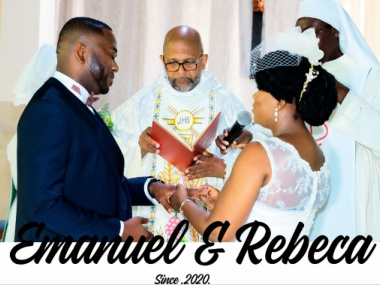
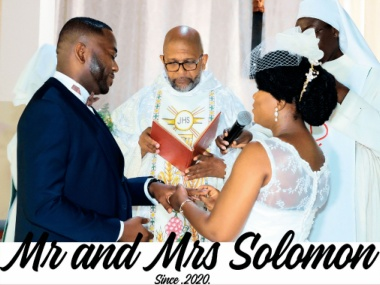
jj
jj

Changed region(s): [[0.0, 0.7579, 1.0, 0.9544], [0.2605, 0.4211, 0.3184, 0.4491]]

diff --git a/solomon/mobile/javascript/config.js b/solomon/mobile/javascript/config.js
@@ -136,7 +136,7 @@ btnTableOfContent:["btnBookMark"]
 };
 	
 	
-	;bookConfig.BookTemplateName="clear";bookConfig.loadingCaption="Loading";bookConfig.loadingCaptionColor="#DDDDDD";bookConfig.loadingBackground="#E8E8E8";bookConfig.appLogoIcon="files/mobile-ext/appLogoIcon.png";bookConfig.appLogoOpenWindow="Blank";bookConfig.logoHeight="40";bookConfig.logoPadding="0";bookConfig.logoTop="0";bookConfig.toolbarColor="#000000";bookConfig.iconColor="#ECF5FB";bookConfig.pageNumColor="#333333";bookConfig.iconFontColor="#FFFFFF";bookConfig.toolbarAlwaysShow="No";bookConfig.InstructionsButtonVisible="Show";bookConfig.QRCode="Hide";bookConfig.HomeButtonVisible="Hide";bookConfig.HomeURL="%first page%";bookConfig.enablePageBack="Show";bookConfig.ShareButtonVisible="Hide";bookConfig.EmailButtonVisible="Hide";bookConfig.btnShareWithEmailBody="{link}";bookConfig.ThumbnailsButtonVisible="Show";bookConfig.thumbnailColor="#333333";bookConfig.thumbnailAlpha="70";bookConfig.BookMarkButtonVisible="Hide";bookConfig.TableOfContentButtonVisible="Show";bookConfig.bookmarkBackground="#000000";bookConfig.bookmarkFontColor="#cccccc";bookConfig.SearchButtonVisible="Hide";bookConfig.leastSearchChar="3";bookConfig.searchFontColor="#FFFFFF";bookConfig.searchHightlightColor="#ffff00";bookConfig.SelectTextButtonVisible="Hide";bookConfig.PrintButtonVisible="Hide";bookConfig.BackgroundSoundButtonVisible="Show";bookConfig.FlipSound="Yes";bookConfig.BackgroundSoundLoop="-1";bookConfig.AutoPlayButtonVisible="Show";bookConfig.autoPlayAutoStart="No";bookConfig.autoPlayDuration="9";bookConfig.autoPlayLoopCount="1";bookConfig.ZoomButtonVisible="Show";bookConfig.minZoomWidth="700";bookConfig.minZoomHeight="518";bookConfig.mouseWheelFlip="Yes";bookConfig.DownloadButtonVisible="Hide";bookConfig.PhoneButtonVisible="Hide";bookConfig.AnnotationButtonVisible="Hide";bookConfig.FullscreenButtonVisible="Show";bookConfig.bgBeginColor="#E2E2E2";bookConfig.bgEndColor="#E2E2E2";bookConfig.bgMRotation="90";bookConfig.backGroundImgURL="files/mobile-ext/backGroundImgURL.jpg";bookConfig.backgroundPosition="stretch";bookConfig.backgroundOpacity="100";bookConfig.LeftShadowWidth="90";bookConfig.LeftShadowAlpha="0.6";bookConfig.RightShadowWidth="55";bookConfig.RightShadowAlpha="0.6";bookConfig.ShowTopLeftShadow="Yes";bookConfig.HardPageEnable="No";bookConfig.hardCoverBorderWidth="8";bookConfig.borderColor="#572F0D";bookConfig.outerCoverBorder="Yes";bookConfig.cornerRound="8";bookConfig.leftMarginOnMobile="0";bookConfig.topMarginOnMobile="0";bookConfig.rightMarginOnMobile="0";bookConfig.bottomMarginOnMobile="0";bookConfig.pageBackgroundColor="#E8E8E8";bookConfig.flipshortcutbutton="Show";bookConfig.BindingType="side";bookConfig.RightToLeft="No";bookConfig.flippingTime="0.6";bookConfig.retainBookCenter="Yes";bookConfig.FlipStyle="Flip";bookConfig.autoDoublePage="No";bookConfig.thicknessWidthType="Thinner";bookConfig.thicknessColor="#ffffff";bookConfig.topMargin="10";bookConfig.bottomMargin="10";bookConfig.leftMargin="10";bookConfig.rightMargin="10";bookConfig.maxWidthToSmallMode="400";bookConfig.maxHeightToSmallMode="300";bookConfig.LinkDownColor="#800080";bookConfig.LinkAlpha="0.2";bookConfig.OpenWindow="Blank";bookConfig.showLinkHint="No";bookConfig.MidBgColor="#664716";bookConfig.searchFontColor="#FFFDDD";bookConfig.totalPageCount=7;bookConfig.largePageWidth=1800;bookConfig.largePageHeight=1350;;bookConfig.securityType="1";bookConfig.bookTitle="rebeca\&ema";bookConfig.bookmarkCR="aade6c8e6e7a8aff42d88900f5444820bc897d68";bookConfig.productName="Flip PDF Corporate Edition";bookConfig.homePage="http://www.flipbuilder.com";bookConfig.searchPositionJS="mobile/javascript/text_position[1].js";bookConfig.searchTextJS="mobile/javascript/search_config.js";bookConfig.normalPath="files/mobile/";bookConfig.largePath="files/mobile/";bookConfig.thumbPath="files/thumb/";bookConfig.userListPath="files/extfiles/users.js";bookConfig.UIBaseURL='mobile/';var language = [];;function orgt(s){ return binl2hex(core_hx(str2binl(s), s.length * chrsz));};; var pageEditor = {"setting":{"annoPlaying":"true","shoppingCartHTML":"false","shoppingCartOptinon":{"type":"PayPal","paypal":"","method":"POST","sandbox":"false","address":"","theme":"","body":"Hi xxx<br/>   I\'m going to buy below product(s):<br/>    ${shopping}<br/>Full Name","showPrice":"true","showTime":"true"}}, "pageAnnos":[[],[],[],[],[],[],[{"annotype":"com.mobiano.flipbook.pageeditor.TAnnoLink","annoId":"202024910373880","alpha":"1","overColor":"8388736","downColor":"8388736","outColor":"11184810","overAlpha":"0.2","downAlpha":"0.2","outAlpha":"0","pageViewedBool":"true","ellipseH":"0","ellipseW":"0","location":{"tannoName":"link1","x":"0.021111111111111112","y":"0.9081481481481479","width":"0.35533333333333333","height":"0.08562962962962962","rotation":"0","reflection":"false","reflectionType":"0","reflectionAlpha":"0","pageWidth":"1800","pageHeight":"1350"},"hint":{"hintShapeColor":"0","hintShapeColor2":"8388736","hintShapeAlpha":"1","hintW":"0","hintH":"0","hintAuto":"true","hintShapeType":"2","text":""},"shadow":{"hasDropShadow":"false","shadowDistance":"4","shadowAngle":"270","shadowColor":"0","shadowAlpha":"0.6","shadowBlurX":"4","shadowBlurY":"4"},"highlightsBool":"false","linkStatus":"1","mouseOver":"false","borderColor":"16737792","action":{"triggerEventType":"mouseDown","actionType":"com.mobiano.flipbook.pageeditor.TAnnoActionOpenURL","url":"https://www.facebook.com/arkatservices","linkTarget":"_blank"}},{"annotype":"com.mobiano.flipbook.pageeditor.TAnnoLink","annoId":"202024910372383","alpha":"1","overColor":"8388736","downColor":"8388736","outColor":"11184810","overAlpha":"0.2","downAlpha":"0.2","outAlpha":"0","pageViewedBool":"true","ellipseH":"0","ellipseW":"0","location":{"tannoName":"link2","x":"0.6633333333333333","y":"0.9096296296296297","width":"0.32222222222222224","height":"0.08","rotation":"0","reflection":"false","reflectionType":"0","reflectionAlpha":"0","pageWidth":"1800","pageHeight":"1350"},"hint":{"hintShapeColor":"0","hintShapeColor2":"8388736","hintShapeAlpha":"1","hintW":"0","hintH":"0","hintAuto":"true","hintShapeType":"2","text":""},"shadow":{"hasDropShadow":"false","shadowDistance":"4","shadowAngle":"270","shadowColor":"0","shadowAlpha":"0.6","shadowBlurX":"4","shadowBlurY":"4"},"highlightsBool":"false","linkStatus":"1","mouseOver":"false","borderColor":"16737792","action":{"triggerEventType":"mouseDown","actionType":"com.mobiano.flipbook.pageeditor.TAnnoActionOpenURL","url":"https://www.instagram.com/arkat_services","linkTarget":"_blank"}},{"annotype":"com.mobiano.flipbook.pageeditor.TAnnoLink","annoId":"202024910372091","alpha":"1","overColor":"8388736","downColor":"8388736","outColor":"11184810","overAlpha":"0.2","downAlpha":"0.2","outAlpha":"0","pageViewedBool":"true","ellipseH":"0","ellipseW":"0","location":{"tannoName":"link1","x":"0.3844444444444444","y":"0.9085185185185184","width":"0.2688888888888889","height":"0.09125925925925926","rotation":"0","reflection":"false","reflectionType":"0","reflectionAlpha":"0","pageWidth":"1800","pageHeight":"1350"},"hint":{"hintShapeColor":"0","hintShapeColor2":"8388736","hintShapeAlpha":"1","hintW":"0","hintH":"0","hintAuto":"true","hintShapeType":"2","text":""},"shadow":{"hasDropShadow":"false","shadowDistance":"4","shadowAngle":"270","shadowColor":"0","shadowAlpha":"0.6","shadowBlurX":"4","shadowBlurY":"4"},"highlightsBool":"false","linkStatus":"1","mouseOver":"false","borderColor":"16737792","action":{"triggerEventType":"mouseDown","actionType":"com.mobiano.flipbook.pageeditor.TAnnoActionOpenURL","url":"https://wa.me/233542454224","linkTarget":"_blank"}}]]}; bookConfig.isFlipPdf=false;
+	;bookConfig.BookTemplateName="clear";bookConfig.loadingCaption="Loading";bookConfig.loadingCaptionColor="#DDDDDD";bookConfig.loadingBackground="#E8E8E8";bookConfig.appLogoIcon="files/mobile-ext/appLogoIcon.png";bookConfig.appLogoOpenWindow="Blank";bookConfig.logoHeight="40";bookConfig.logoPadding="0";bookConfig.logoTop="0";bookConfig.toolbarColor="#000000";bookConfig.iconColor="#ECF5FB";bookConfig.pageNumColor="#333333";bookConfig.iconFontColor="#FFFFFF";bookConfig.toolbarAlwaysShow="No";bookConfig.InstructionsButtonVisible="Show";bookConfig.QRCode="Hide";bookConfig.HomeButtonVisible="Hide";bookConfig.HomeURL="%first page%";bookConfig.enablePageBack="Show";bookConfig.ShareButtonVisible="Hide";bookConfig.EmailButtonVisible="Hide";bookConfig.btnShareWithEmailBody="{link}";bookConfig.ThumbnailsButtonVisible="Show";bookConfig.thumbnailColor="#333333";bookConfig.thumbnailAlpha="70";bookConfig.BookMarkButtonVisible="Hide";bookConfig.TableOfContentButtonVisible="Show";bookConfig.bookmarkBackground="#000000";bookConfig.bookmarkFontColor="#cccccc";bookConfig.SearchButtonVisible="Hide";bookConfig.leastSearchChar="3";bookConfig.searchFontColor="#FFFFFF";bookConfig.searchHightlightColor="#ffff00";bookConfig.SelectTextButtonVisible="Show";bookConfig.PrintButtonVisible="Show";bookConfig.BackgroundSoundButtonVisible="Show";bookConfig.FlipSound="Yes";bookConfig.BackgroundSoundLoop="-1";bookConfig.AutoPlayButtonVisible="Show";bookConfig.autoPlayAutoStart="No";bookConfig.autoPlayDuration="9";bookConfig.autoPlayLoopCount="1";bookConfig.ZoomButtonVisible="Show";bookConfig.minZoomWidth="700";bookConfig.minZoomHeight="518";bookConfig.mouseWheelFlip="Yes";bookConfig.DownloadButtonVisible="Hide";bookConfig.PhoneButtonVisible="Hide";bookConfig.AnnotationButtonVisible="Hide";bookConfig.FullscreenButtonVisible="Show";bookConfig.bgBeginColor="#1F2232";bookConfig.bgEndColor="#1F2232";bookConfig.bgMRotation="90";bookConfig.backGroundImgURL="files/mobile-ext/backGroundImgURL.jpg";bookConfig.backgroundPosition="stretch";bookConfig.backgroundOpacity="100";bookConfig.LeftShadowWidth="90";bookConfig.LeftShadowAlpha="0.6";bookConfig.RightShadowWidth="55";bookConfig.RightShadowAlpha="0.6";bookConfig.ShowTopLeftShadow="Yes";bookConfig.HardPageEnable="No";bookConfig.hardCoverBorderWidth="8";bookConfig.borderColor="#572F0D";bookConfig.outerCoverBorder="Yes";bookConfig.cornerRound="8";bookConfig.leftMarginOnMobile="0";bookConfig.topMarginOnMobile="0";bookConfig.rightMarginOnMobile="0";bookConfig.bottomMarginOnMobile="0";bookConfig.pageBackgroundColor="#FFFFFF";bookConfig.flipshortcutbutton="Show";bookConfig.BindingType="side";bookConfig.RightToLeft="No";bookConfig.flippingTime="0.6";bookConfig.retainBookCenter="Yes";bookConfig.FlipStyle="Flip";bookConfig.autoDoublePage="No";bookConfig.thicknessWidthType="Thinner";bookConfig.thicknessColor="#ffffff";bookConfig.topMargin="10";bookConfig.bottomMargin="10";bookConfig.leftMargin="10";bookConfig.rightMargin="10";bookConfig.maxWidthToSmallMode="400";bookConfig.maxHeightToSmallMode="300";bookConfig.LinkDownColor="#800080";bookConfig.LinkAlpha="0.2";bookConfig.OpenWindow="Blank";bookConfig.showLinkHint="No";bookConfig.MidBgColor="#781639";bookConfig.searchFontColor="#FFFDDD";bookConfig.totalPageCount=7;bookConfig.largePageWidth=1800;bookConfig.largePageHeight=1350;;bookConfig.securityType="1";bookConfig.bookTitle="Mr and Mrs Solomon";bookConfig.bookmarkCR="670d0bba0db6be3550e77ee26b09b027445aa12a";bookConfig.productName="Flip PDF Corporate Edition";bookConfig.homePage="http://www.flipbuilder.com";bookConfig.searchPositionJS="mobile/javascript/text_position[1].js";bookConfig.searchTextJS="mobile/javascript/search_config.js";bookConfig.normalPath="files/mobile/";bookConfig.largePath="files/mobile/";bookConfig.thumbPath="files/thumb/";bookConfig.userListPath="files/extfiles/users.js";bookConfig.UIBaseURL='mobile/';var language = [];;function orgt(s){ return binl2hex(core_hx(str2binl(s), s.length * chrsz));};; var pageEditor = {"setting":{"annoPlaying":"true","shoppingCartHTML":"false","shoppingCartOptinon":{"type":"PayPal","paypal":"","method":"POST","sandbox":"false","address":"","theme":"","body":"Hi xxx<br/>   I\'m going to buy below product(s):<br/>    ${shopping}<br/>Full Name","showPrice":"true","showTime":"true"}}, "pageAnnos":[[],[],[],[],[],[],[{"annotype":"com.mobiano.flipbook.pageeditor.TAnnoLink","annoId":"202030103495934","alpha":"1","overColor":"8388736","downColor":"8388736","outColor":"11184810","overAlpha":"0.2","downAlpha":"0.2","outAlpha":"0","pageViewedBool":"true","ellipseH":"0","ellipseW":"0","location":{"tannoName":"link1","x":"0.37666666666666665","y":"0.9081481481481481","width":"0.2831666666666667","height":"0.09562962962962962","rotation":"-0.6274828929315216","reflection":"false","reflectionType":"0","reflectionAlpha":"0","pageWidth":"1800","pageHeight":"1350"},"hint":{"hintShapeColor":"0","hintShapeColor2":"8388736","hintShapeAlpha":"1","hintW":"0","hintH":"0","hintAuto":"true","hintShapeType":"2","text":""},"shadow":{"hasDropShadow":"false","shadowDistance":"4","shadowAngle":"270","shadowColor":"0","shadowAlpha":"0.6","shadowBlurX":"4","shadowBlurY":"4"},"highlightsBool":"false","linkStatus":"1","mouseOver":"false","borderColor":"16737792","action":{"triggerEventType":"mouseDown","actionType":"com.mobiano.flipbook.pageeditor.TAnnoActionOpenURL","url":"https://wa.me/233542454224","linkTarget":"_blank"}},{"annotype":"com.mobiano.flipbook.pageeditor.TAnnoLink","annoId":"20203010349615","alpha":"1","overColor":"8388736","downColor":"8388736","outColor":"11184810","overAlpha":"0.2","downAlpha":"0.2","outAlpha":"0","pageViewedBool":"true","ellipseH":"0","ellipseW":"0","location":{"tannoName":"link2","x":"0.05","y":"0.9111111111111111","width":"0.31555555555555553","height":"0.08681481481481482","rotation":"0","reflection":"false","reflectionType":"0","reflectionAlpha":"0","pageWidth":"1800","pageHeight":"1350"},"hint":{"hintShapeColor":"0","hintShapeColor2":"8388736","hintShapeAlpha":"1","hintW":"0","hintH":"0","hintAuto":"true","hintShapeType":"2","text":""},"shadow":{"hasDropShadow":"false","shadowDistance":"4","shadowAngle":"270","shadowColor":"0","shadowAlpha":"0.6","shadowBlurX":"4","shadowBlurY":"4"},"highlightsBool":"false","linkStatus":"1","mouseOver":"false","borderColor":"16737792","action":{"triggerEventType":"mouseDown","actionType":"com.mobiano.flipbook.pageeditor.TAnnoActionOpenURL","url":"https://www.facebook.com/arkatservices","linkTarget":"_blank"}},{"annotype":"com.mobiano.flipbook.pageeditor.TAnnoLink","annoId":"202030103491761","alpha":"1","overColor":"8388736","downColor":"8388736","outColor":"11184810","overAlpha":"0.2","downAlpha":"0.2","outAlpha":"0","pageViewedBool":"true","ellipseH":"0","ellipseW":"0","location":{"tannoName":"link3","x":"0.67","y":"0.9185185185185185","width":"0.33305555555555555","height":"0.07540740740740741","rotation":"0","reflection":"false","reflectionType":"0","reflectionAlpha":"0","pageWidth":"1800","pageHeight":"1350"},"hint":{"hintShapeColor":"0","hintShapeColor2":"8388736","hintShapeAlpha":"1","hintW":"0","hintH":"0","hintAuto":"true","hintShapeType":"2","text":""},"shadow":{"hasDropShadow":"false","shadowDistance":"4","shadowAngle":"270","shadowColor":"0","shadowAlpha":"0.6","shadowBlurX":"4","shadowBlurY":"4"},"highlightsBool":"false","linkStatus":"1","mouseOver":"false","borderColor":"16737792","action":{"triggerEventType":"mouseDown","actionType":"com.mobiano.flipbook.pageeditor.TAnnoActionOpenURL","url":"https://www.instagram.com/arkat_services","linkTarget":"_blank"}}]]}; bookConfig.isFlipPdf=false;
 	bookConfig.hideMiniFullscreen=true;
 	if(language&&language.length>0&&language[0]&&language[0].language){
 		bookConfig.language=language[0].language;

diff --git a/solomon/index.html b/solomon/index.html
@@ -9,14 +9,14 @@
  <meta name="apple-mobile-web-app-status-bar-style" content="black" />
  
 <meta name="Keywords" content="" />
-<meta name="Description" content="rebeca&ema" />
+<meta name="Description" content="Mr and Mrs Solomon" />
 <meta name="Generator" content="Flip PDF Corporate Edition 2.4.9  at http://www.flipbuilder.com" />
 <link rel="image_src" href="files/shot.png">
  <link rel="shortcut icon" href="files/thumb/1.jpg" />
 <link rel="apple-touch-icon" href="files/thumb/1.jpg" />
 <meta name="og:image" content="files/shot.png">
 <meta property="og:image" content="files/shot.png">
-<title>rebeca&ema</title>
+<title>Mr and Mrs Solomon</title>
 
 <link rel="stylesheet" href="mobile/style/style.css" />
 <link rel="stylesheet" href="mobile/style/player.css" />

diff --git a/solomon/files/basic-html/index.html b/solomon/files/basic-html/index.html
@@ -4,7 +4,7 @@
 				<meta name="robots" content="all"/>
         <meta name="description" content="description">
         <meta name="keywords" content="">
-        <title>Page 1 - rebeca&ema</title>
+        <title>Page 1 - Mr and Mrs Solomon</title>
 <style type="text/css">
 <!--
 body {
@@ -141,7 +141,7 @@ function MM_swapImage() { //v3.0
   </div>
   <div id="content">
      <div id="content-top">
-        <div id="content-top1">Page 1 - rebeca&ema</div>
+        <div id="content-top1">Page 1 - Mr and Mrs Solomon</div>
         <div id="content-top2">P. 1</div>
      </div>
      <div id="content-middle">

diff --git a/solomon/files/basic-html/page1.html b/solomon/files/basic-html/page1.html
@@ -4,7 +4,7 @@
 				<meta name="robots" content="all"/>
         <meta name="description" content="description">
         <meta name="keywords" content="">
-        <title>Page 1 - rebeca&ema</title>
+        <title>Page 1 - Mr and Mrs Solomon</title>
 <style type="text/css">
 <!--
 body {
@@ -141,7 +141,7 @@ function MM_swapImage() { //v3.0
   </div>
   <div id="content">
      <div id="content-top">
-        <div id="content-top1">Page 1 - rebeca&ema</div>
+        <div id="content-top1">Page 1 - Mr and Mrs Solomon</div>
         <div id="content-top2">P. 1</div>
      </div>
      <div id="content-middle">

diff --git a/solomon/files/basic-html/page2.html b/solomon/files/basic-html/page2.html
@@ -4,7 +4,7 @@
 				<meta name="robots" content="all"/>
         <meta name="description" content="description">
         <meta name="keywords" content="">
-        <title>Page 2 - rebeca&ema</title>
+        <title>Page 2 - Mr and Mrs Solomon</title>
 <style type="text/css">
 <!--
 body {
@@ -141,7 +141,7 @@ function MM_swapImage() { //v3.0
   </div>
   <div id="content">
      <div id="content-top">
-        <div id="content-top1">Page 2 - rebeca&ema</div>
+        <div id="content-top1">Page 2 - Mr and Mrs Solomon</div>
         <div id="content-top2">P. 2</div>
      </div>
      <div id="content-middle">

diff --git a/solomon/files/basic-html/page3.html b/solomon/files/basic-html/page3.html
@@ -4,7 +4,7 @@
 				<meta name="robots" content="all"/>
         <meta name="description" content="description">
         <meta name="keywords" content="">
-        <title>Page 3 - rebeca&ema</title>
+        <title>Page 3 - Mr and Mrs Solomon</title>
 <style type="text/css">
 <!--
 body {
@@ -141,7 +141,7 @@ function MM_swapImage() { //v3.0
   </div>
   <div id="content">
      <div id="content-top">
-        <div id="content-top1">Page 3 - rebeca&ema</div>
+        <div id="content-top1">Page 3 - Mr and Mrs Solomon</div>
         <div id="content-top2">P. 3</div>
      </div>
      <div id="content-middle">

diff --git a/solomon/files/basic-html/page4.html b/solomon/files/basic-html/page4.html
@@ -4,7 +4,7 @@
 				<meta name="robots" content="all"/>
         <meta name="description" content="description">
         <meta name="keywords" content="">
-        <title>Page 4 - rebeca&ema</title>
+        <title>Page 4 - Mr and Mrs Solomon</title>
 <style type="text/css">
 <!--
 body {
@@ -141,7 +141,7 @@ function MM_swapImage() { //v3.0
   </div>
   <div id="content">
      <div id="content-top">
-        <div id="content-top1">Page 4 - rebeca&ema</div>
+        <div id="content-top1">Page 4 - Mr and Mrs Solomon</div>
         <div id="content-top2">P. 4</div>
      </div>
      <div id="content-middle">

diff --git a/solomon/files/basic-html/page5.html b/solomon/files/basic-html/page5.html
@@ -4,7 +4,7 @@
 				<meta name="robots" content="all"/>
         <meta name="description" content="description">
         <meta name="keywords" content="">
-        <title>Page 5 - rebeca&ema</title>
+        <title>Page 5 - Mr and Mrs Solomon</title>
 <style type="text/css">
 <!--
 body {
@@ -141,7 +141,7 @@ function MM_swapImage() { //v3.0
   </div>
   <div id="content">
      <div id="content-top">
-        <div id="content-top1">Page 5 - rebeca&ema</div>
+        <div id="content-top1">Page 5 - Mr and Mrs Solomon</div>
         <div id="content-top2">P. 5</div>
      </div>
      <div id="content-middle">

diff --git a/solomon/files/basic-html/page6.html b/solomon/files/basic-html/page6.html
@@ -4,7 +4,7 @@
 				<meta name="robots" content="all"/>
         <meta name="description" content="description">
         <meta name="keywords" content="">
-        <title>Page 6 - rebeca&ema</title>
+        <title>Page 6 - Mr and Mrs Solomon</title>
 <style type="text/css">
 <!--
 body {
@@ -141,7 +141,7 @@ function MM_swapImage() { //v3.0
   </div>
   <div id="content">
      <div id="content-top">
-        <div id="content-top1">Page 6 - rebeca&ema</div>
+        <div id="content-top1">Page 6 - Mr and Mrs Solomon</div>
         <div id="content-top2">P. 6</div>
      </div>
      <div id="content-middle">

diff --git a/solomon/files/basic-html/page7.html b/solomon/files/basic-html/page7.html
@@ -4,7 +4,7 @@
 				<meta name="robots" content="all"/>
         <meta name="description" content="description">
         <meta name="keywords" content="">
-        <title>Page 7 - rebeca&ema</title>
+        <title>Page 7 - Mr and Mrs Solomon</title>
 <style type="text/css">
 <!--
 body {
@@ -141,7 +141,7 @@ function MM_swapImage() { //v3.0
   </div>
   <div id="content">
      <div id="content-top">
-        <div id="content-top1">Page 7 - rebeca&ema</div>
+        <div id="content-top1">Page 7 - Mr and Mrs Solomon</div>
         <div id="content-top2">P. 7</div>
      </div>
      <div id="content-middle">
